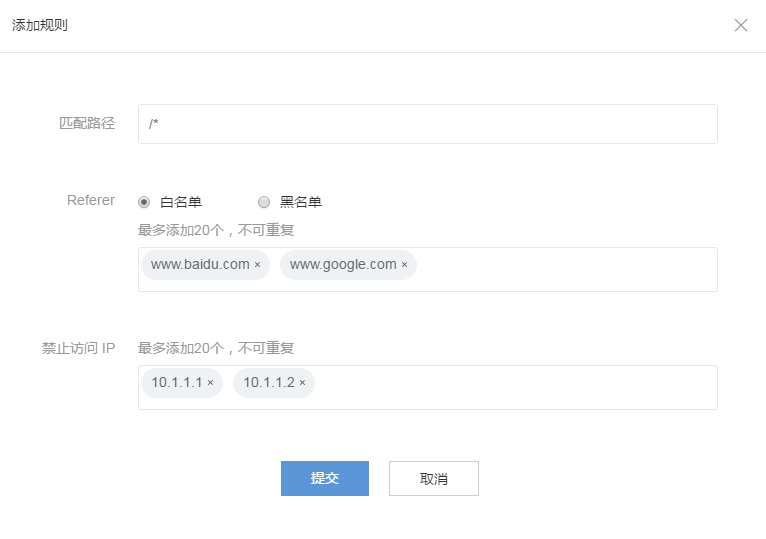
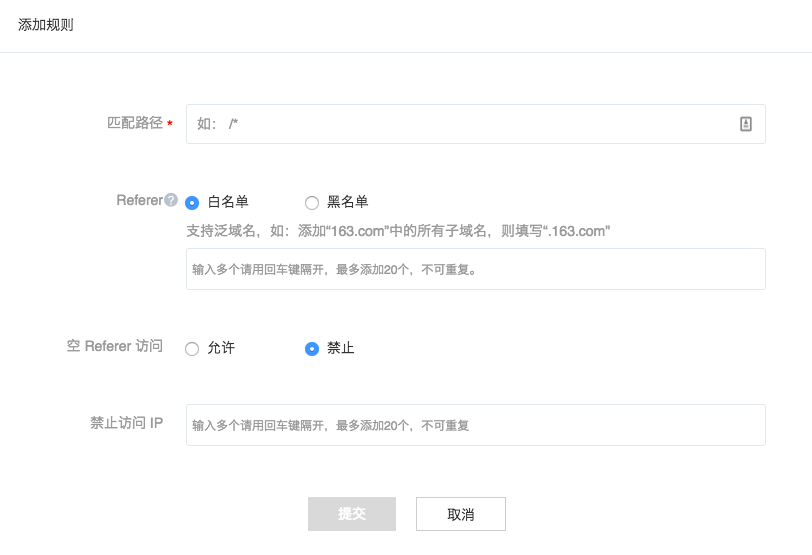
Feature:CDN-空Referer

diff --git a/平台服务/CDN/控制台手册/访问控制配置.md b/平台服务/CDN/控制台手册/访问控制配置.md
@@ -2,16 +2,17 @@
 
 在加速域名详情页，点击「访问控制配置」进入访问控制配置页。
 
-CDN对加速域名，可以提供包括黑名单referer，白名单referer，禁止访问IP这三种访问控制规则，保护用户的资源不被窃用。
+CDN对加速域名，可以提供包括黑名单 Referer、白名单 Referer、空 Referer 访问、禁止访问 IP 这四种访问控制规则，保护用户的资源不被窃用。
 
-CDN支持 多条访问控制规则 ，系统会逐条判断，只有符合全部访问规则的请求才允许访问。
+CDN支持多条访问控制规则，系统会逐条判断，只有符合全部访问规则的请求才允许访问。
 
 
-|访问控制功能	  |                         **作用**                         |
-|-----------------|----------------------------------------------------------|
-|黑名单referer    |防止某一些网站非法引用访问资源	                         |
-|白名单referer    |允许信任的网站访问	                                     |        
-|禁止Ip访问       |针对性地访问禁止某些非法IP或者肉机IP的访问	             |
+|  访问控制功能  |                  **作用**                  |
+|----------------|--------------------------------------------|
+| 黑名单 Referer | 防止某一些网站非法引用访问资源             |
+| 白名单 Referer | 允许信任的网站访问                         |
+| 空 Referer     | 允许/禁止 空 Referer 访问                        |
+| 禁止Ip访问     | 针对性地访问禁止某些非法IP或者肉机IP的访问 |
 
   
 注意：在访问控制配置中，所有添加、设置、删除操作，在操作完成后均需点击「保存修改」后才会被提交。
@@ -40,13 +41,13 @@ CDN支持 多条访问控制规则 ，系统会逐条判断，只有符合全部
 
 2、Referer 设置
 
-Referer 设置用于防盗链功能， 防盗链功能基于 HTTP 协议支持的 Referer 机制，通过 referer 跟踪来源，对来源进行识别和判断，用户可以通过配置访问的 referer 黑白名单来对访问者身份进行识别和过滤，从而限制 CDN 资源被访问的情况， 目前防盗链功能支持黑名单或白名单机制，访客对资源发起请求后，请求到达 CDN 节点，CDN 节点会根据用户预设的防盗链黑名单或白名单，对访客的身份进行过滤，符合规则可以顺利请求到资源；若不符合规则， 该访客请求被禁止。 黑名单referer主要防止其他网站非法引用本域名下的一些资源。
+Referer 设置用于防盗链功能， 防盗链功能基于 HTTP 协议支持的 Referer 机制，通过 Referer 跟踪来源，对来源进行识别和判断，用户可以通过配置访问的 Referer 黑白名单来对访问者身份进行识别和过滤，从而限制 CDN 资源被访问的情况， 目前防盗链功能支持黑名单或白名单机制，访客对资源发起请求后，请求到达 CDN 节点，CDN 节点会根据用户预设的防盗链黑名单或白名单，对访客的身份进行过滤，符合规则可以顺利请求到资源；若不符合规则， 该访客请求被禁止。 黑名单Referer主要防止其他网站非法引用本域名下的一些资源。
 
-白名单referer与黑名单referer相反，为允许指定rerferer的请求进行访问。<referer>不支持通配符。例如，可以输入 .google.com，即表示*.google.com。
+白名单Referer与黑名单Referer相反，为允许指定rerferer的请求进行访问。<Referer>不支持通配符。例如，可以输入 .google.com，即表示*.google.com。
 
 3、禁止访问 IP 设置
 
-http referer 是可以伪造的，在客户端等非浏览器访问下可以很轻松得进行篡改。这个时候可以通过设置禁止ip的方式防止盗链或者盗刷。
+http Referer 是可以伪造的，在客户端等非浏览器访问下可以很轻松得进行篡改。这个时候可以通过设置禁止ip的方式防止盗链或者盗刷。
 
 禁止Ip访问支持网段，但是不支持通配符。例如，输入网段192.168.23.0/24，那么，该网段都禁止访问；如输入192.168.23.*，API接口会接受，但不会执行成功
 
